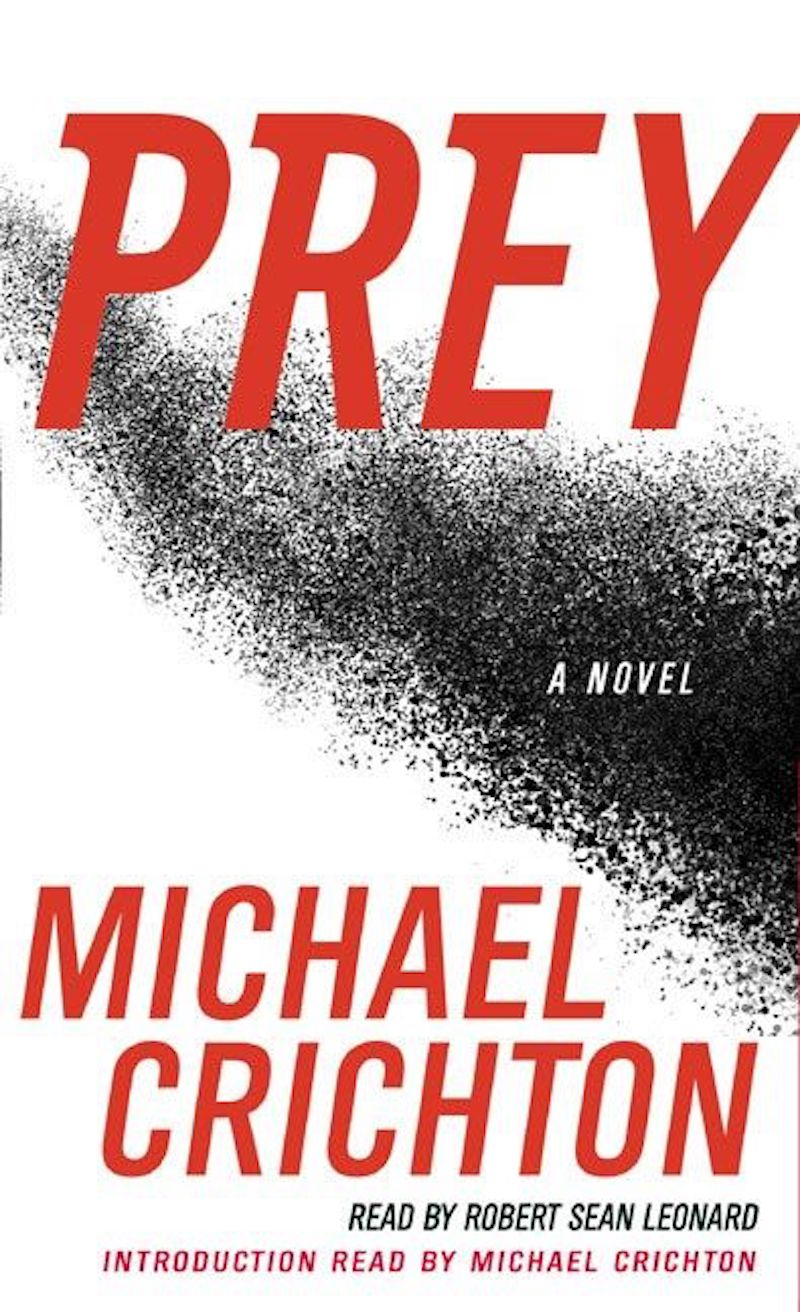
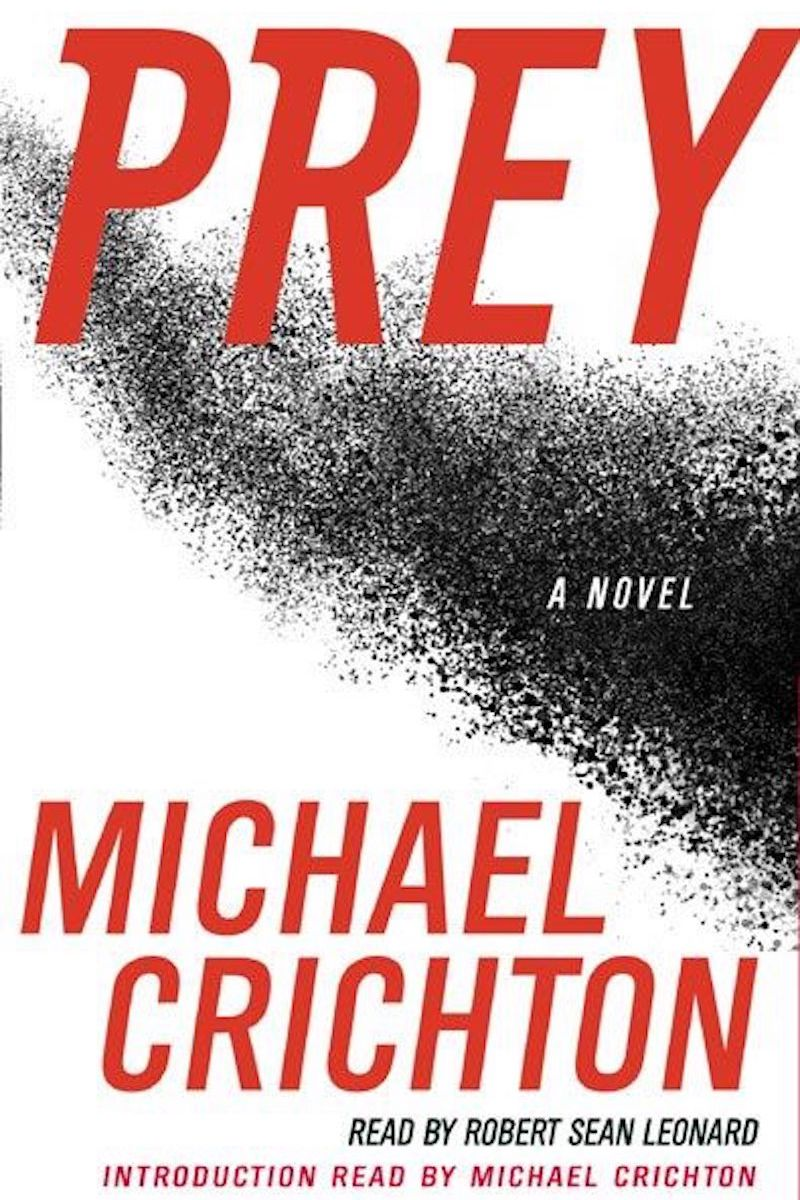
Improved rendering of book cover

diff --git a/assets/JS/bookJS.js b/assets/JS/bookJS.js
@@ -114,7 +114,7 @@ var generateBookDiv = function (book, authors, reviews, genres, themes) {
     var $div2 = $("<div class = 'row'/>");
         var $col1 = $("<div class = 'col-1'/>");
         var $div3 = $("<div class = 'col-10 singleItemContainer'/>");
-            var $div4 = $("<div class = 'col-3 singleItemContainer'/>");
+            var $div4 = $("<div class = 'col-3 singleItemContainer bookCoverContainer'/>");
                 var $im1 = $("<img />", { class:"singleItemImage big-screen-image", src:"../assets/Images/BookCovers/"+book.title+".jpg"});
             var $col2 = $("<div class = 'col-1'/>");
             var $div5 = $("<div class = 'col-8 singleItemContainer'/>");

diff --git a/assets/CSS/singleItemStyles.css b/assets/CSS/singleItemStyles.css
@@ -13,6 +13,18 @@
 .singleItemContainer{
     padding: 0px;
 }
+.bookCoverContainer{
+    position: relative;
+    padding-bottom: 66.666667%; /* ratio of image height to width */
+    height: 0;
+    overflow: hidden;
+}
+.bookCoverContainer img{
+    position: absolute;
+    top: 0;
+    left: 0;
+    width: 100%;
+}
 .textcontent{
     text-align: justify;
     max-height: 300px;
